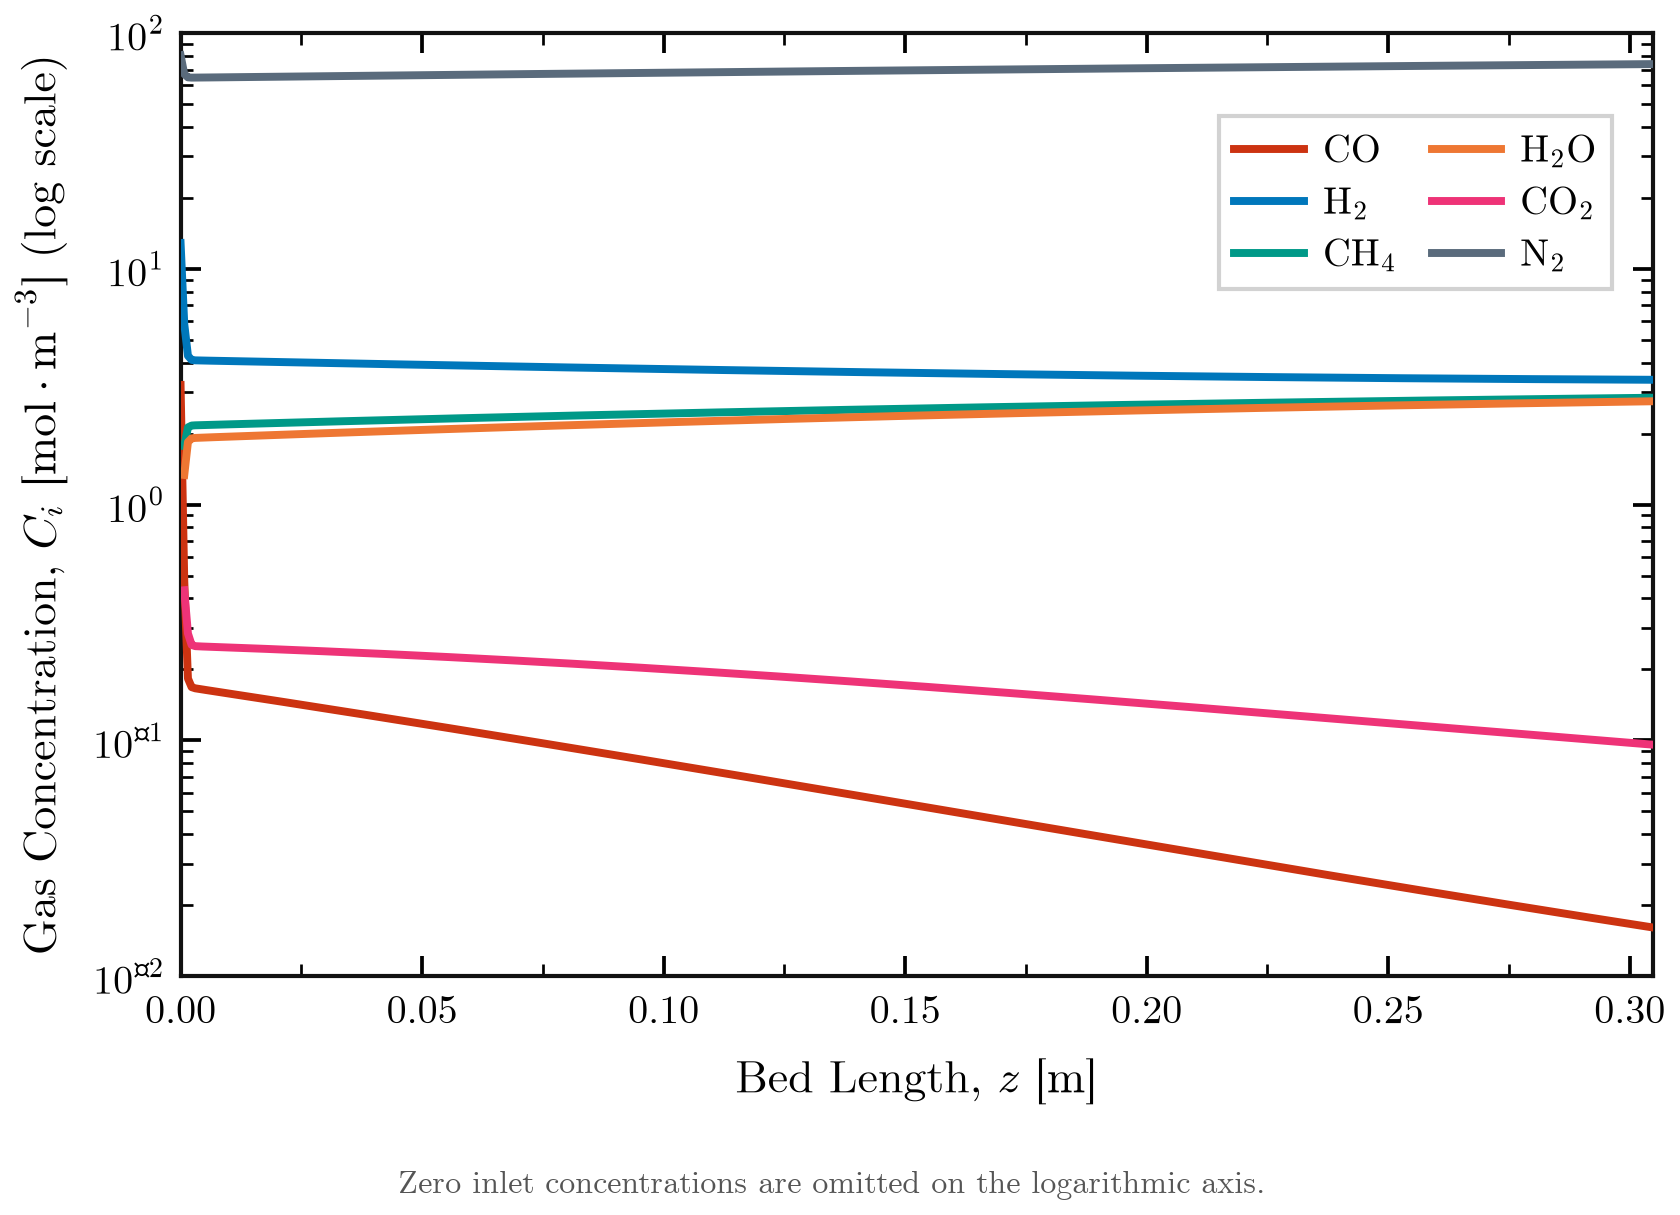
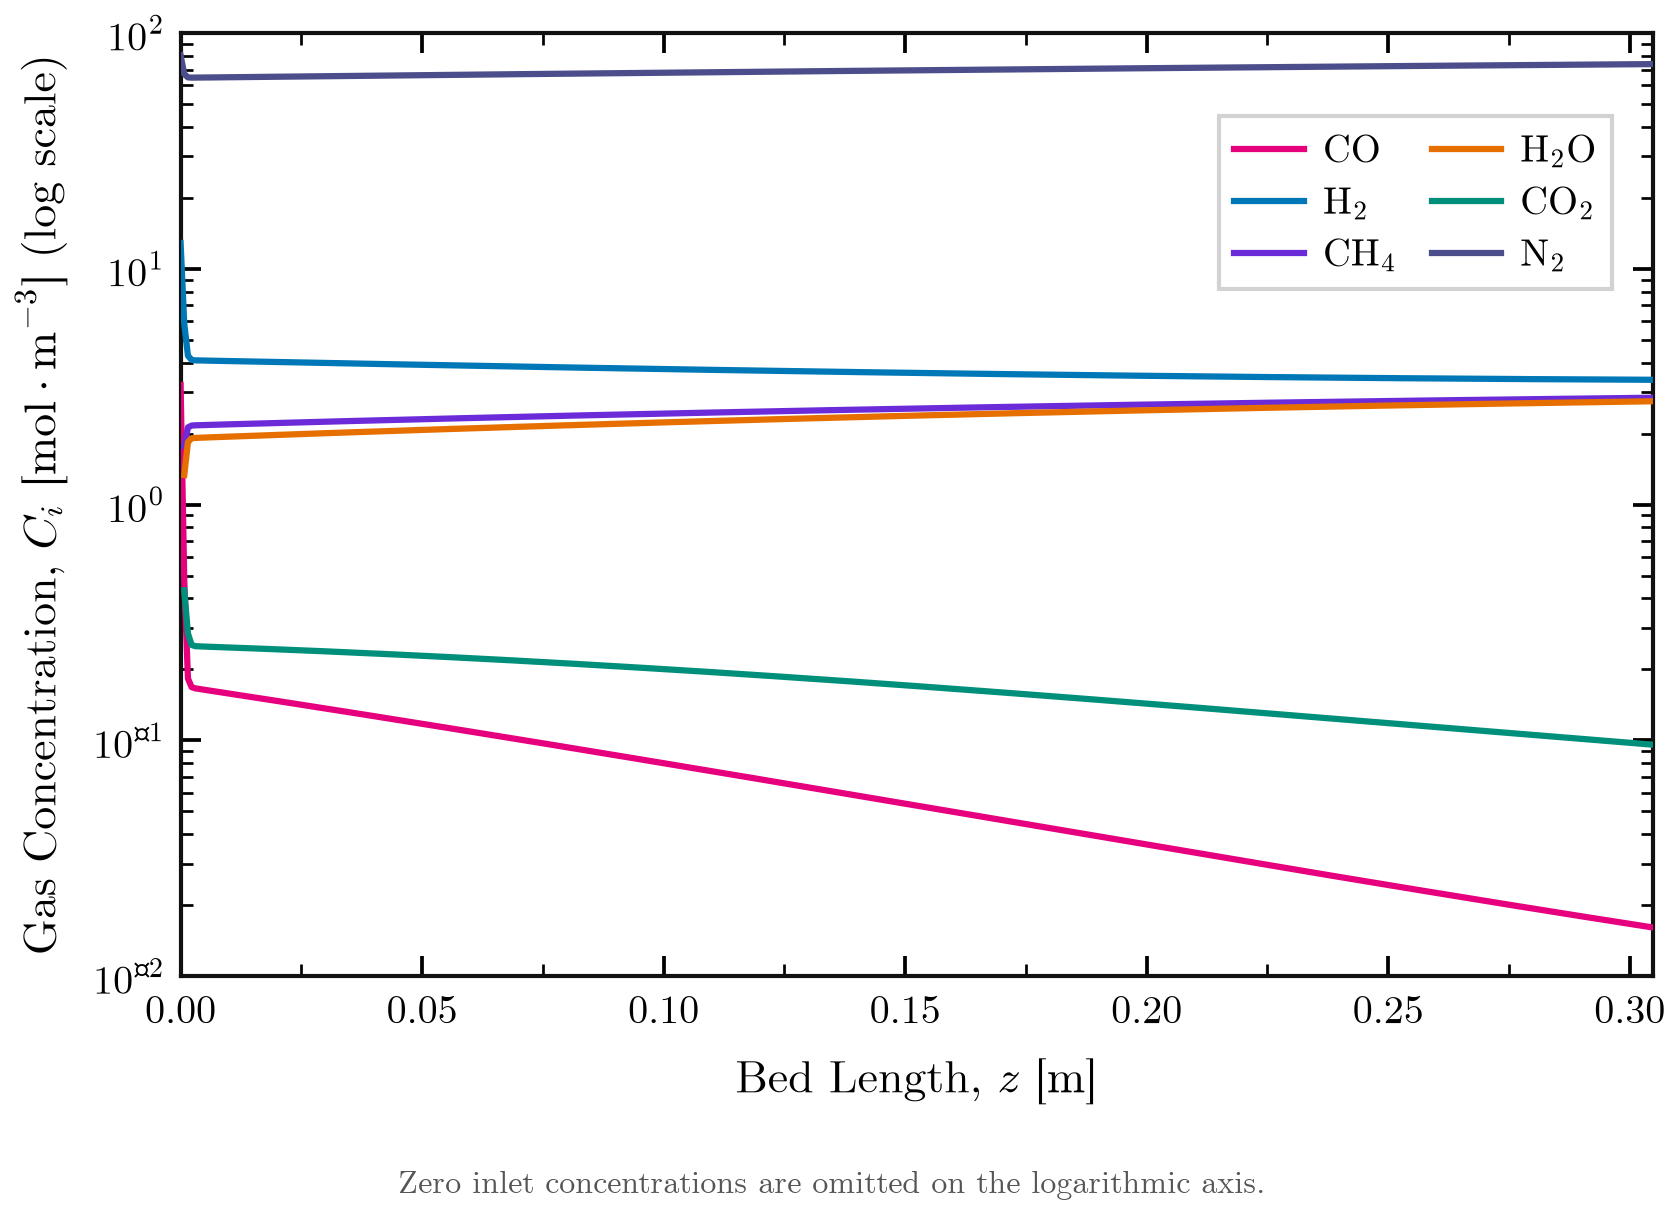
Restyle species profiles with synthwave palette

diff --git a/src/methanation/plotting.py b/src/methanation/plotting.py
@@ -62,12 +62,13 @@ COLOR_GRID = "#EAEAEA"
 COLOR_ZERO = "#718096"
 
 SPECIES_PALETTE = {
-    "H2":  {"color": "#0077BB", "style": "-",              "width": 2.0, "label": r"$\mathrm{H}_2$"},
-    "CO":  {"color": "#CC3311", "style": "--",             "width": 2.0, "label": r"$\mathrm{CO}$"},
-    "CH4": {"color": "#009988", "style": "-.",             "width": 2.0, "label": r"$\mathrm{CH}_4$"},
-    "H2O": {"color": "#EE7733", "style": ":",              "width": 2.2, "label": r"$\mathrm{H}_2\mathrm{O}$"},
-    "N2":  {"color": "#5A6B7C", "style": (0, (5, 2, 1, 2)), "width": 1.8, "label": r"$\mathrm{N}_2$"},
-    "CO2": {"color": "#EE3377", "style": "-",              "width": 1.7, "label": r"$\mathrm{CO}_2$"},
+    # Synthwave-inspired hues tuned for contrast on a white report background.
+    "H2":  {"color": "#0077B6", "style": "-", "width": 1.5, "label": r"$\mathrm{H}_2$"},
+    "CO":  {"color": "#E6007E", "style": "-", "width": 1.5, "label": r"$\mathrm{CO}$"},
+    "CH4": {"color": "#6C2BD9", "style": "-", "width": 1.5, "label": r"$\mathrm{CH}_4$"},
+    "H2O": {"color": "#E76F00", "style": "-", "width": 1.5, "label": r"$\mathrm{H}_2\mathrm{O}$"},
+    "N2":  {"color": "#4B4E8A", "style": "-", "width": 1.5, "label": r"$\mathrm{N}_2$"},
+    "CO2": {"color": "#008F7A", "style": "-", "width": 1.5, "label": r"$\mathrm{CO}_2$"},
 }
 
 

diff --git a/src/methanation/reporting.py b/src/methanation/reporting.py
@@ -109,8 +109,8 @@ def _make_figures(result: SimulationResult, output_dir: Path) -> None:
             result.bed_length_m,
             values,
             color=sp_style["color"],
-            linestyle="-",
-            linewidth=1.9,
+            linestyle=sp_style["style"],
+            linewidth=sp_style["width"],
             label=sp_style["label"],
             zorder=3,
         )
